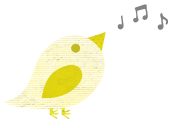
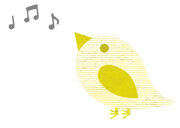
flip the bird

diff --git a/app/assets/images/save-the-date/email.html b/app/assets/images/save-the-date/email.html
@@ -6,7 +6,7 @@
   <!-- Facebook sharing information tags -->
   <meta property="og:title" content="Rachel & Andrew's wedding">
 
-  <title>Rachel & Andrew's wedding</title>
+  <title>Rachel &amp; Andrew's wedding</title>
 
   <style type="text/css">
   #outlook a{
